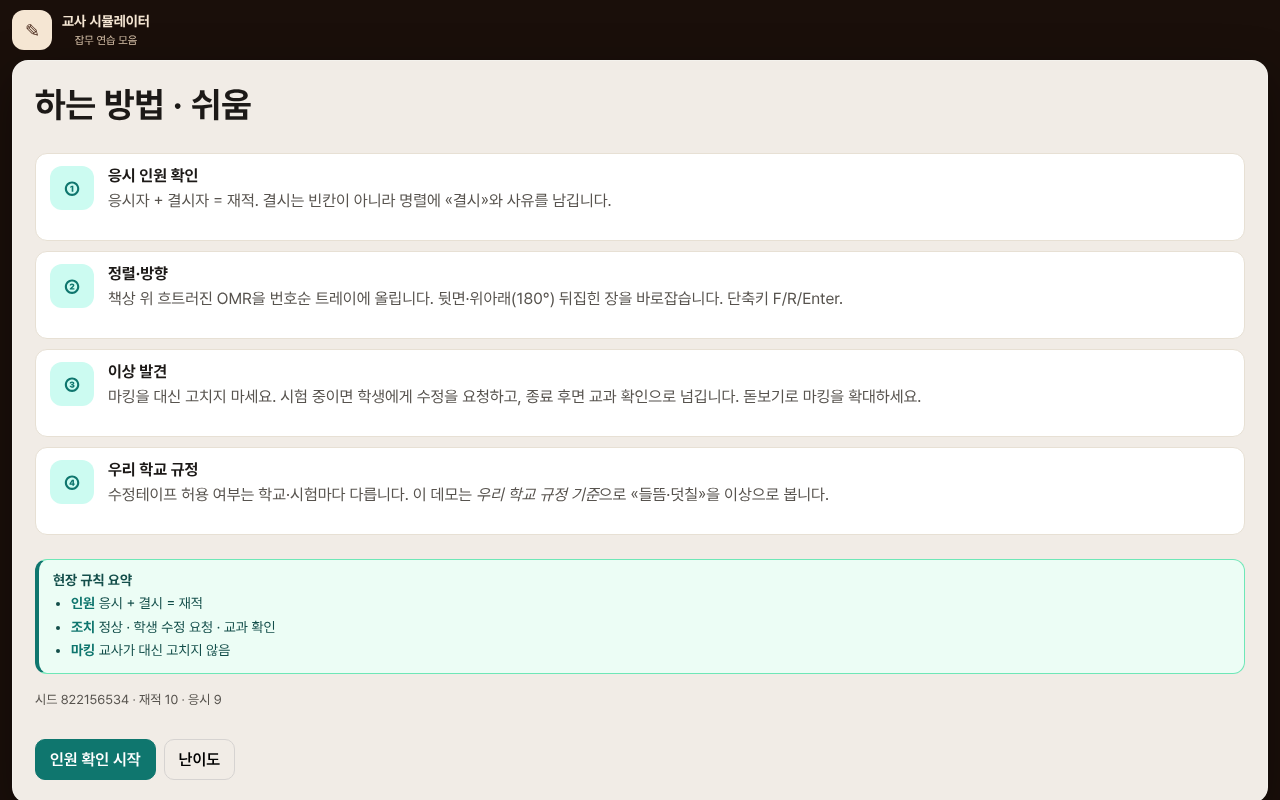
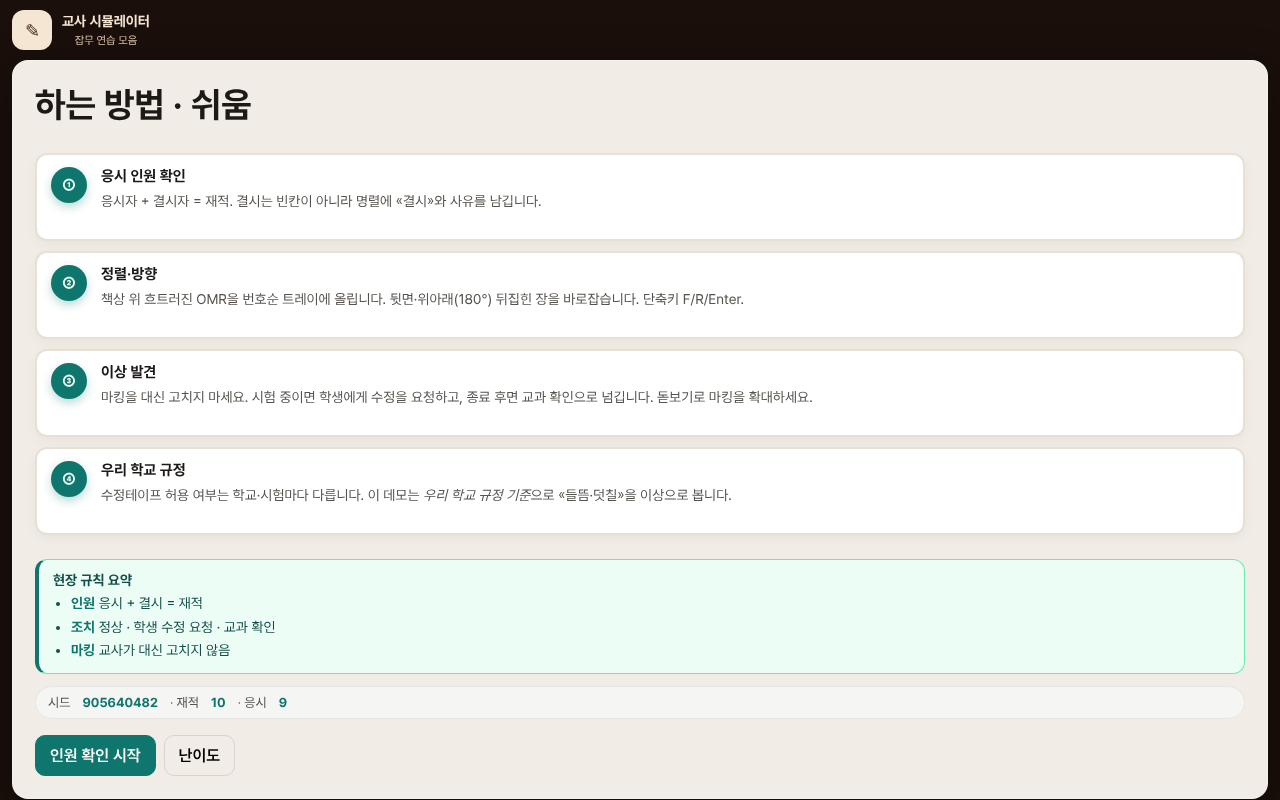
Round 0048: howto step circles and seed chip
Give howto steps teal number badges and surface the seed /
roster counts as a readable pill.

diff --git a/src/style.css b/src/style.css
@@ -1644,3 +1644,45 @@ kbd {
 .pile-zone.is-empty .zone-head h2 {
   opacity: 0.85;
 }
+
+
+/* 0048 howto steps + seed chip */
+.howto-steps li {
+  border-width: 2px;
+  box-shadow: 0 4px 12px rgba(28,25,23,0.04);
+}
+.howto-ico {
+  flex: 0 0 36px;
+  width: 36px;
+  height: 36px;
+  border-radius: 50%;
+  display: grid;
+  place-items: center;
+  background: #0f766e;
+  color: #ecfdf5;
+  font-weight: 900;
+  font-size: 15px;
+  box-shadow: 0 4px 10px rgba(15,118,110,0.28);
+}
+.howto-steps li b {
+  font-size: 15px;
+  color: #1c1917;
+}
+.howto-steps li p {
+  font-size: 14px;
+  line-height: 1.45;
+  color: #57534e !important;
+}
+.howto-seed {
+  display: inline-flex;
+  flex-wrap: wrap;
+  gap: 6px 12px;
+  margin: 8px 0 0;
+  padding: 8px 12px;
+  border-radius: 999px;
+  background: #f5f5f4;
+  border: 1px solid #e7e5e4;
+  font-size: 13px;
+  color: #57534e;
+}
+.howto-seed b { color: #0f766e; }

diff --git a/src/main.ts b/src/main.ts
@@ -343,7 +343,7 @@ function renderHowto() {
       <li><strong>마킹</strong> 교사가 대신 고치지 않음</li>
     </ul>
   </aside>
-  <p class="side-note">시드 ${d.config.seed} · 재적 ${d.config.studentCount} · 응시 ${d.cards.length}</p>
+  <p class="howto-seed">시드 <b>${d.config.seed}</b> · 재적 <b>${d.config.studentCount}</b> · 응시 <b>${d.cards.length}</b></p>
   <div class="actions">
     <button class="btn primary" id="btn-go" type="button">인원 확인 시작</button>
     <button class="btn ghost" id="btn-back" type="button">난이도</button>

diff --git a/docs/issues/0048-howto-steps.md b/docs/issues/0048-howto-steps.md
@@ -1,0 +1,10 @@
+# 0048 Howto steps + seed chip
+
+## Critique
+Step numbers plain; seed line easy to miss.
+
+## Fix
+Teal numbered circles; stronger step copy; pill seed/roster chip.
+
+## Verify
+e2e OK · viewport OK

diff --git a/docs/ROUNDLOG.md b/docs/ROUNDLOG.md
@@ -70,3 +70,6 @@
 
 ## Round 0047 (03:05 KST)
 - Empty tray ghosts + pile-empty banner
+
+## Round 0048 (03:06 KST)
+- Howto steps + seed chip
